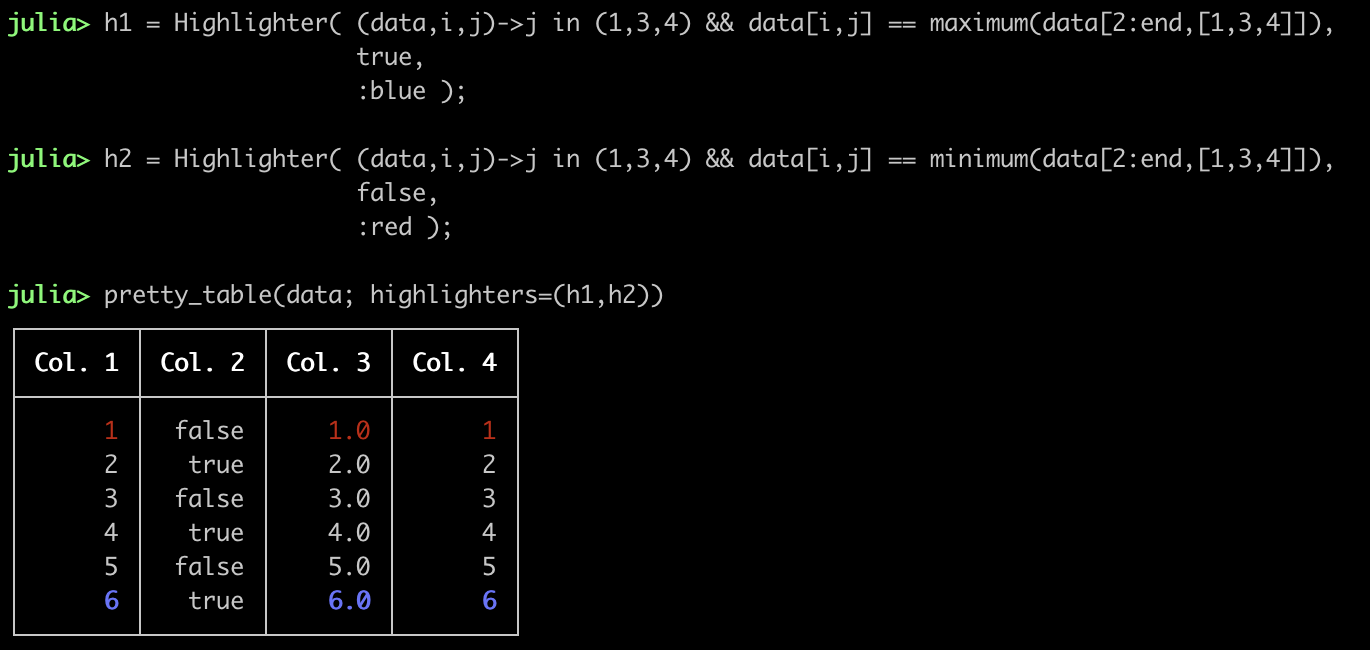
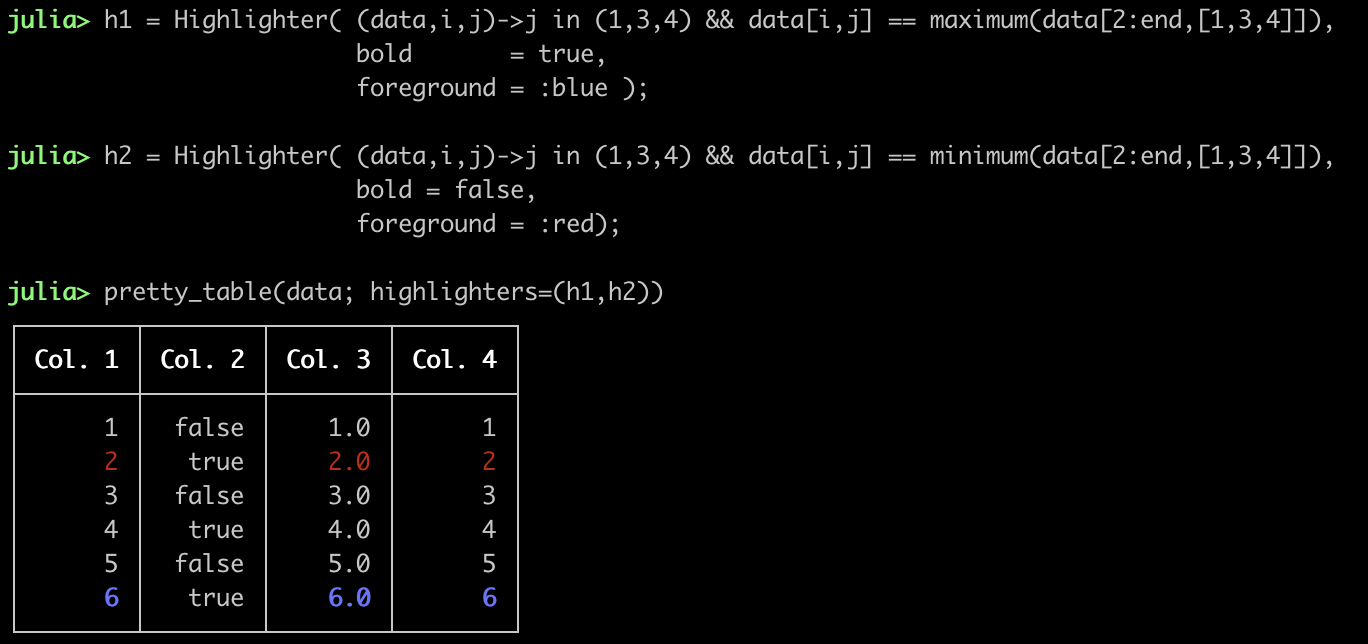
build based on 1b768b6

diff --git a/dev/man/usage/index.html b/dev/man/usage/index.html
@@ -1,5 +1,5 @@
 <!DOCTYPE html>
-<html lang="en"><head><meta charset="UTF-8"/><meta name="viewport" content="width=device-width, initial-scale=1.0"/><title>Usage · Pretty Tables</title><link rel="canonical" href="https://ronisbr.github.io/PrettyTables.jl/stable/man/usage/index.html"/><link href="https://cdnjs.cloudflare.com/ajax/libs/normalize/4.2.0/normalize.min.css" rel="stylesheet" type="text/css"/><link href="https://fonts.googleapis.com/css?family=Lato|Roboto+Mono" rel="stylesheet" type="text/css"/><link href="https://cdnjs.cloudflare.com/ajax/libs/font-awesome/4.6.3/css/font-awesome.min.css" rel="stylesheet" type="text/css"/><link href="https://cdnjs.cloudflare.com/ajax/libs/highlight.js/9.12.0/styles/default.min.css" rel="stylesheet" type="text/css"/><script>documenterBaseURL="../.."</script><script src="https://cdnjs.cloudflare.com/ajax/libs/require.js/2.2.0/require.min.js" data-main="../../assets/documenter.js"></script><script src="../../siteinfo.js"></script><script src="../../../versions.js"></script><link href="../../assets/documenter.css" rel="stylesheet" type="text/css"/></head><body><nav class="toc"><a href="../../index.html"><img class="logo" src="../../assets/logo.png" alt="Pretty Tables logo"/></a><h1>Pretty Tables</h1><select id="version-selector" onChange="window.location.href=this.value" style="visibility: hidden"></select><form class="search" id="search-form" action="../../search/"><input id="search-query" name="q" type="text" placeholder="Search docs"/></form><ul><li><a class="toctext" href="../../">Home</a></li><li class="current"><a class="toctext" href>Usage</a><ul class="internal"></ul></li><li><a class="toctext" href="../alignment/">Alignment</a></li><li><a class="toctext" href="../formats/">Formats</a></li><li><a class="toctext" href="../formatter/">Formatters</a></li><li><a class="toctext" href="../highlighters/">Highlighters</a></li><li><a class="toctext" href="../examples/">Examples</a></li></ul></nav><article id="docs"><header><nav><ul><li><a href>Usage</a></li></ul><a class="edit-page" href="https://github.com/ronisbr/PrettyTables.jl/blob/master/docs/src/man/usage.md"><span class="fa"></span> Edit on GitHub</a></nav><hr/><div id="topbar"><span>Usage</span><a class="fa fa-bars" href="#"></a></div></header><h1><a class="nav-anchor" id="Usage-1" href="#Usage-1">Usage</a></h1><p>The following functions can be used to print data.</p><pre><code class="language-julia">function pretty_table(data::AbstractMatrix{T1}, header::AbstractVecOrMat{T2}; kwargs...) where {T1,T2}</code></pre><p>Print to <code>io</code> the matrix <code>data</code> with header <code>header</code> using the format <code>tf</code> (see <a href="../formats/#Formats-1">Formats</a>). If <code>io</code> is omitted, then it defaults to <code>stdout</code>. If <code>header</code> is empty, then it will be automatically filled with &quot;Col. i&quot; for the <em>i</em>-th column.</p><p>The <code>header</code> can be a <code>Vector</code> or a <code>Matrix</code>. If it is a <code>Matrix</code>, then each row will be a header line. The first line is called <em>header</em> and the others are called <em>sub-headers</em> .</p><pre><code class="language-julia-repl">julia&gt; data = [1 2 3; 4 5 6];
+<html lang="en"><head><meta charset="UTF-8"/><meta name="viewport" content="width=device-width, initial-scale=1.0"/><title>Usage · Pretty Tables</title><link rel="canonical" href="https://ronisbr.github.io/PrettyTables.jl/stable/man/usage/index.html"/><link href="https://cdnjs.cloudflare.com/ajax/libs/normalize/4.2.0/normalize.min.css" rel="stylesheet" type="text/css"/><link href="https://fonts.googleapis.com/css?family=Lato|Roboto+Mono" rel="stylesheet" type="text/css"/><link href="https://cdnjs.cloudflare.com/ajax/libs/font-awesome/4.6.3/css/font-awesome.min.css" rel="stylesheet" type="text/css"/><link href="https://cdnjs.cloudflare.com/ajax/libs/highlight.js/9.12.0/styles/default.min.css" rel="stylesheet" type="text/css"/><script>documenterBaseURL="../.."</script><script src="https://cdnjs.cloudflare.com/ajax/libs/require.js/2.2.0/require.min.js" data-main="../../assets/documenter.js"></script><script src="../../siteinfo.js"></script><script src="../../../versions.js"></script><link href="../../assets/documenter.css" rel="stylesheet" type="text/css"/></head><body><nav class="toc"><a href="../../index.html"><img class="logo" src="../../assets/logo.png" alt="Pretty Tables logo"/></a><h1>Pretty Tables</h1><select id="version-selector" onChange="window.location.href=this.value" style="visibility: hidden"></select><form class="search" id="search-form" action="../../search/"><input id="search-query" name="q" type="text" placeholder="Search docs"/></form><ul><li><a class="toctext" href="../../">Home</a></li><li class="current"><a class="toctext" href>Usage</a><ul class="internal"><li><a class="toctext" href="#Crayons-1">Crayons</a></li></ul></li><li><a class="toctext" href="../alignment/">Alignment</a></li><li><a class="toctext" href="../formats/">Formats</a></li><li><a class="toctext" href="../formatter/">Formatters</a></li><li><a class="toctext" href="../highlighters/">Highlighters</a></li><li><a class="toctext" href="../examples/">Examples</a></li></ul></nav><article id="docs"><header><nav><ul><li><a href>Usage</a></li></ul><a class="edit-page" href="https://github.com/ronisbr/PrettyTables.jl/blob/master/docs/src/man/usage.md"><span class="fa"></span> Edit on GitHub</a></nav><hr/><div id="topbar"><span>Usage</span><a class="fa fa-bars" href="#"></a></div></header><h1><a class="nav-anchor" id="Usage-1" href="#Usage-1">Usage</a></h1><p>The following functions can be used to print data.</p><pre><code class="language-julia">function pretty_table(data::AbstractMatrix{T1}, header::AbstractVecOrMat{T2}; kwargs...) where {T1,T2}</code></pre><p>Print to <code>io</code> the matrix <code>data</code> with header <code>header</code> using the format <code>tf</code> (see <a href="../formats/#Formats-1">Formats</a>). If <code>io</code> is omitted, then it defaults to <code>stdout</code>. If <code>header</code> is empty, then it will be automatically filled with &quot;Col. i&quot; for the <em>i</em>-th column.</p><p>The <code>header</code> can be a <code>Vector</code> or a <code>Matrix</code>. If it is a <code>Matrix</code>, then each row will be a header line. The first line is called <em>header</em> and the others are called <em>sub-headers</em> .</p><pre><code class="language-julia-repl">julia&gt; data = [1 2 3; 4 5 6];
 
 julia&gt; pretty_table(data, [&quot;Column 1&quot;, &quot;Column 2&quot;, &quot;Column 3&quot;])
 ┌──────────┬──────────┬──────────┐
@@ -24,4 +24,7 @@ julia&gt; pretty_table(data)
 ├────────┼────────┼────────┤
 │      1 │      2 │      3 │
 │   true │  false │   true │
-└────────┴────────┴────────┘</code></pre><pre><code class="language-julia">function pretty_table([io,] table, tf::PrettyTableFormat = unicode; ...)</code></pre><p>Print to <code>io</code> the table <code>table</code> using the format <code>tf</code> (see <a href="../formats/#Formats-1">Formats</a>).  In this case, <code>table</code> must comply with the API of <a href="https://github.com/JuliaData/Tables.jl">Tables.jl</a>. If <code>io</code> is omitted, then it defaults to <code>stdout</code>.</p><p>In all cases, the following keywords are available:</p><ul><li><code>alignment</code>: Select the alignment of the columns (see the section              <a href="../alignment/#Alignment-1">Alignment</a>).</li><li><code>border_bold</code>: If <code>true</code>, then the border will be printed in <strong>bold</strong>.                (<strong>Default</strong> = <code>false</code>)</li><li><code>border_color</code>: The color in which the border will be printed using the same                 convention as in the function <code>printstyled</code>. (<strong>Default</strong> =                 <code>:normal</code>)</li><li><code>formatter</code>: See the section <a href="../formatter/#Formatter-1">Formatter</a>.</li><li><code>header_bold</code>: If <code>true</code>, then the header will be printed in <strong>bold</strong>.                (<strong>Default</strong> = <code>false</code>)</li><li><code>header_color</code>: The color in which the header will be printed using the same                 convention as in the function <code>printstyled</code>. (<strong>Default</strong> =                 <code>:normal</code>)</li><li><code>highlighters</code>: A tuple with a list of highlighters (see the section                 <a href="../highlighters/#Highlighters-1">Highlighters</a>).</li><li><code>hlines</code>: A vector of <code>Int</code> indicating row numbers in which an additional           horizontal line should be drawn after the row. Notice that numbers           lower than 1 and equal or higher than the number of rows will be           neglected.</li><li><code>same_column_size</code>: If <code>true</code>, then all the columns will have the same size.                     (<strong>Default</strong> = <code>false</code>)</li><li><code>show_row_number</code>: If <code>true</code>, then a new column will be printed showing the                    row number. (<strong>Default</strong> = <code>false</code>)</li><li><code>subheaders_bold</code>: If <code>true</code>, then the sub-headers will be printed in                    <strong>bold</strong>. (<strong>Default</strong> = <code>false</code>)</li><li><code>subheaders_color</code>: The color in which the sub-headers will be printed using                     the same convention as in the function <code>printstyled</code>.                     (<strong>Default</strong> = <code>:light_black</code>)</li></ul><footer><hr/><a class="previous" href="../../"><span class="direction">Previous</span><span class="title">Home</span></a><a class="next" href="../alignment/"><span class="direction">Next</span><span class="title">Alignment</span></a></footer></article></body></html>
+└────────┴────────┴────────┘</code></pre><pre><code class="language-julia">function pretty_table([io,] table, tf::PrettyTableFormat = unicode; ...)</code></pre><p>Print to <code>io</code> the table <code>table</code> using the format <code>tf</code> (see <a href="../formats/#Formats-1">Formats</a>).  In this case, <code>table</code> must comply with the API of <a href="https://github.com/JuliaData/Tables.jl">Tables.jl</a>. If <code>io</code> is omitted, then it defaults to <code>stdout</code>.</p><p>In all cases, the following keywords are available:</p><ul><li><code>border_crayon</code>: Crayon to print the border.</li><li><code>header_crayon</code>: Crayon to print the header.</li><li><code>subheaders_crayon</code>: Crayon to print sub-headers.</li><li><code>rownum_header_crayon</code>: Crayon for the header of the column with the row                         numbers.</li><li><code>text_crayon</code>: Crayon to print default text.</li><li><code>alignment</code>: Select the alignment of the columns (see the section              <a href="../alignment/#Alignment-1">Alignment</a>).</li><li><code>formatter</code>: See the section <a href="../formatter/#Formatter-1">Formatter</a>.</li><li><code>highlighters</code>: A tuple with a list of highlighters (see the section                 <a href="../highlighters/#Highlighters-1">Highlighters</a>).</li><li><code>hlines</code>: A vector of <code>Int</code> indicating row numbers in which an additional           horizontal line should be drawn after the row. Notice that numbers           lower than 1 and equal or higher than the number of rows will be           neglected.</li><li><code>same_column_size</code>: If <code>true</code>, then all the columns will have the same size.                     (<strong>Default</strong> = <code>false</code>)</li><li><code>show_row_number</code>: If <code>true</code>, then a new column will be printed showing the                    row number. (<strong>Default</strong> = <code>false</code>)</li></ul><p>The keywords <code>header_crayon</code> and <code>subheaders_crayon</code> can be a <code>Crayon</code> or a <code>Vector{Crayon}</code>. In the first case, the <code>Crayon</code> will be applied to all the elements. In the second, each element can have its own crayon, but the length of the vector must be equal to the number of columns in the data.</p><h2><a class="nav-anchor" id="Crayons-1" href="#Crayons-1">Crayons</a></h2><p>A <code>Crayon</code> is an object that handles a style for text printed on terminals. It is defined in the package <a href="https://github.com/KristofferC/Crayons.jl">Crayons.jl</a>. There are many options available to customize the style, such as foreground color, background color, bold text, etc.</p><p>A <code>Crayon</code> can be created in two different ways:</p><pre><code class="language-julia-repl">julia&gt; Crayon(foreground = :blue, background = :black, bold = :true)
+
+julia&gt; crayon&quot;blue bg:black bold&quot;</code></pre><p>For more information, see the <a href="https://github.com/KristofferC/Crayons.jl/blob/master/README.md">Crayon.jl documentation</a>.</p><p>!!! Info</p><pre><code class="language-none">The Crayon.jl package is re-exported by PrettyTables.jl. Hence, you do not
+need `using Crayons` to create a `Crayon`.</code></pre><footer><hr/><a class="previous" href="../../"><span class="direction">Previous</span><span class="title">Home</span></a><a class="next" href="../alignment/"><span class="direction">Next</span><span class="title">Alignment</span></a></footer></article></body></html>

diff --git a/dev/search_index.js b/dev/search_index.js
@@ -61,7 +61,15 @@ var documenterSearchIndex = {"docs": [
     "page": "Usage",
     "title": "Usage",
     "category": "section",
-    "text": "CurrentModule = PrettyTables\nDocTestSetup = quote\n    using PrettyTables\nendThe following functions can be used to print data.function pretty_table(data::AbstractMatrix{T1}, header::AbstractVecOrMat{T2}; kwargs...) where {T1,T2}Print to io the matrix data with header header using the format tf (see Formats). If io is omitted, then it defaults to stdout. If header is empty, then it will be automatically filled with \"Col. i\" for the i-th column.The header can be a Vector or a Matrix. If it is a Matrix, then each row will be a header line. The first line is called header and the others are called sub-headers .julia> data = [1 2 3; 4 5 6];\n\njulia> pretty_table(data, [\"Column 1\", \"Column 2\", \"Column 3\"])\n┌──────────┬──────────┬──────────┐\n│ Column 1 │ Column 2 │ Column 3 │\n├──────────┼──────────┼──────────┤\n│        1 │        2 │        3 │\n│        4 │        5 │        6 │\n└──────────┴──────────┴──────────┘\n\njulia> pretty_table(data, [\"Column 1\" \"Column 2\" \"Column 3\"; \"A\" \"B\" \"C\"])\n┌──────────┬──────────┬──────────┐\n│ Column 1 │ Column 2 │ Column 3 │\n│        A │        B │        C │\n├──────────┼──────────┼──────────┤\n│        1 │        2 │        3 │\n│        4 │        5 │        6 │\n└──────────┴──────────┴──────────┘function pretty_table([io,] data::AbstractMatrix{T}, tf::PrettyTableFormat = unicode; ...) where TPrint to io the matrix data using the format tf (see PrettyTableFormat). If io is omitted, then it defaults to stdout. The header will be automatically filled with \"Col. i\" for the i-th column.julia> data = Any[1 2 3; true false true];\n\njulia> pretty_table(data)\n┌────────┬────────┬────────┐\n│ Col. 1 │ Col. 2 │ Col. 3 │\n├────────┼────────┼────────┤\n│      1 │      2 │      3 │\n│   true │  false │   true │\n└────────┴────────┴────────┘function pretty_table([io,] table, tf::PrettyTableFormat = unicode; ...)Print to io the table table using the format tf (see Formats).  In this case, table must comply with the API of Tables.jl. If io is omitted, then it defaults to stdout.In all cases, the following keywords are available:alignment: Select the alignment of the columns (see the section              Alignment).\nborder_bold: If true, then the border will be printed in bold.                (Default = false)\nborder_color: The color in which the border will be printed using the same                 convention as in the function printstyled. (Default =                 :normal)\nformatter: See the section Formatter.\nheader_bold: If true, then the header will be printed in bold.                (Default = false)\nheader_color: The color in which the header will be printed using the same                 convention as in the function printstyled. (Default =                 :normal)\nhighlighters: A tuple with a list of highlighters (see the section                 Highlighters).\nhlines: A vector of Int indicating row numbers in which an additional           horizontal line should be drawn after the row. Notice that numbers           lower than 1 and equal or higher than the number of rows will be           neglected.\nsame_column_size: If true, then all the columns will have the same size.                     (Default = false)\nshow_row_number: If true, then a new column will be printed showing the                    row number. (Default = false)\nsubheaders_bold: If true, then the sub-headers will be printed in                    bold. (Default = false)\nsubheaders_color: The color in which the sub-headers will be printed using                     the same convention as in the function printstyled.                     (Default = :light_black)"
+    "text": "CurrentModule = PrettyTables\nDocTestSetup = quote\n    using PrettyTables\nendThe following functions can be used to print data.function pretty_table(data::AbstractMatrix{T1}, header::AbstractVecOrMat{T2}; kwargs...) where {T1,T2}Print to io the matrix data with header header using the format tf (see Formats). If io is omitted, then it defaults to stdout. If header is empty, then it will be automatically filled with \"Col. i\" for the i-th column.The header can be a Vector or a Matrix. If it is a Matrix, then each row will be a header line. The first line is called header and the others are called sub-headers .julia> data = [1 2 3; 4 5 6];\n\njulia> pretty_table(data, [\"Column 1\", \"Column 2\", \"Column 3\"])\n┌──────────┬──────────┬──────────┐\n│ Column 1 │ Column 2 │ Column 3 │\n├──────────┼──────────┼──────────┤\n│        1 │        2 │        3 │\n│        4 │        5 │        6 │\n└──────────┴──────────┴──────────┘\n\njulia> pretty_table(data, [\"Column 1\" \"Column 2\" \"Column 3\"; \"A\" \"B\" \"C\"])\n┌──────────┬──────────┬──────────┐\n│ Column 1 │ Column 2 │ Column 3 │\n│        A │        B │        C │\n├──────────┼──────────┼──────────┤\n│        1 │        2 │        3 │\n│        4 │        5 │        6 │\n└──────────┴──────────┴──────────┘function pretty_table([io,] data::AbstractMatrix{T}, tf::PrettyTableFormat = unicode; ...) where TPrint to io the matrix data using the format tf (see PrettyTableFormat). If io is omitted, then it defaults to stdout. The header will be automatically filled with \"Col. i\" for the i-th column.julia> data = Any[1 2 3; true false true];\n\njulia> pretty_table(data)\n┌────────┬────────┬────────┐\n│ Col. 1 │ Col. 2 │ Col. 3 │\n├────────┼────────┼────────┤\n│      1 │      2 │      3 │\n│   true │  false │   true │\n└────────┴────────┴────────┘function pretty_table([io,] table, tf::PrettyTableFormat = unicode; ...)Print to io the table table using the format tf (see Formats).  In this case, table must comply with the API of Tables.jl. If io is omitted, then it defaults to stdout.In all cases, the following keywords are available:border_crayon: Crayon to print the border.\nheader_crayon: Crayon to print the header.\nsubheaders_crayon: Crayon to print sub-headers.\nrownum_header_crayon: Crayon for the header of the column with the row                         numbers.\ntext_crayon: Crayon to print default text.\nalignment: Select the alignment of the columns (see the section              Alignment).\nformatter: See the section Formatter.\nhighlighters: A tuple with a list of highlighters (see the section                 Highlighters).\nhlines: A vector of Int indicating row numbers in which an additional           horizontal line should be drawn after the row. Notice that numbers           lower than 1 and equal or higher than the number of rows will be           neglected.\nsame_column_size: If true, then all the columns will have the same size.                     (Default = false)\nshow_row_number: If true, then a new column will be printed showing the                    row number. (Default = false)The keywords header_crayon and subheaders_crayon can be a Crayon or a Vector{Crayon}. In the first case, the Crayon will be applied to all the elements. In the second, each element can have its own crayon, but the length of the vector must be equal to the number of columns in the data."
+},
+
+{
+    "location": "man/usage/#Crayons-1",
+    "page": "Usage",
+    "title": "Crayons",
+    "category": "section",
+    "text": "A Crayon is an object that handles a style for text printed on terminals. It is defined in the package Crayons.jl. There are many options available to customize the style, such as foreground color, background color, bold text, etc.A Crayon can be created in two different ways:julia> Crayon(foreground = :blue, background = :black, bold = :true)\n\njulia> crayon\"blue bg:black bold\"For more information, see the Crayon.jl documentation.!!! InfoThe Crayon.jl package is re-exported by PrettyTables.jl. Hence, you do not\nneed `using Crayons` to create a `Crayon`."
 },
 
 {
@@ -125,7 +133,7 @@ var documenterSearchIndex = {"docs": [
     "page": "Highlighters",
     "title": "Highlighters",
     "category": "section",
-    "text": "CurrentModule = PrettyTables\nDocTestSetup = quote\n    using PrettyTables\nendA highlighter is an instance of the structure Highlighter that contains information about which elements a highlight style should be applied. The structure contains three fields:f: Function with the signature f(data,i,j) in which should return true      if the element (i,j) in data must be highlighted, or false      otherwise.\nbold: If true, then the highlight style should be bold.\ncolor: A symbol with the color of the highlight style using the same          convention as in the function printstyled.The function f must have the following signature:f(data, i, j)in which data is a reference to the data that is being printed, i and j are the element coordinates that are being tested. If this function returns true, then the highlight style will be applied to the (i,j) element. Otherwise, the default style will be used.A set of highlighters can be passed as a Tuple to the highlighter keyword. Notice that if multiple highlighters are valid for the element (i,j), then the applied style will be equal to the first match considering the order in the Tuple highlighters.(Image: )note: Note\nIf the highlighters are used together with Formatter, then the change in the format will not affect that parameter data passed to the highlighter function f. It will always receive the original, unformatted value.There are a set of pre-defined highlighters (with names hl_*) to make the usage simpler. They are defined in the file ./src/predefined_highlighters.jl."
+    "text": "CurrentModule = PrettyTables\nDocTestSetup = quote\n    using PrettyTables\nendA highlighter is an instance of the structure Highlighter that contains information about which elements a highlight style should be applied. The structure contains three fields:f: Function with the signature f(data,i,j) in which should return true      if the element (i,j) in data must be highlighted, or false      otherwise.\ncrayon: Crayon with the style of a highlighted element.The function f must have the following signature:f(data, i, j)in which data is a reference to the data that is being printed, i and j are the element coordinates that are being tested. If this function returns true, then the highlight style will be applied to the (i,j) element. Otherwise, the default style will be used.A set of highlighters can be passed as a Tuple to the highlighter keyword. Notice that if multiple highlighters are valid for the element (i,j), then the applied style will be equal to the first match considering the order in the Tuple highlighters.(Image: )(Image: )note: Note\nIf the highlighters are used together with Formatter, then the change in the format will not affect that parameter data passed to the highlighter function f. It will always receive the original, unformatted value.There are a set of pre-defined highlighters (with names hl_*) to make the usage simpler. They are defined in the file ./src/predefined_highlighters.jl.To make the syntax less cumbersome, the following helper function is available:    function Highlighter(f; kwargs...)It creates a Highlighter with the function f and pass all the keyword arguments kwargs to the Crayon. Hence, the following code:julia> Highlighter((data,i,j)->isodd(i), Crayon(bold = true, background = :dark_gray))can be replaced by:julia> Highlighter((data,i,j)->isodd(i); bold = true, background = :dark_gray)"
 },
 
 {

diff --git a/dev/man/highlighters/index.html b/dev/man/highlighters/index.html
@@ -1,2 +1,2 @@
 <!DOCTYPE html>
-<html lang="en"><head><meta charset="UTF-8"/><meta name="viewport" content="width=device-width, initial-scale=1.0"/><title>Highlighters · Pretty Tables</title><link rel="canonical" href="https://ronisbr.github.io/PrettyTables.jl/stable/man/highlighters/index.html"/><link href="https://cdnjs.cloudflare.com/ajax/libs/normalize/4.2.0/normalize.min.css" rel="stylesheet" type="text/css"/><link href="https://fonts.googleapis.com/css?family=Lato|Roboto+Mono" rel="stylesheet" type="text/css"/><link href="https://cdnjs.cloudflare.com/ajax/libs/font-awesome/4.6.3/css/font-awesome.min.css" rel="stylesheet" type="text/css"/><link href="https://cdnjs.cloudflare.com/ajax/libs/highlight.js/9.12.0/styles/default.min.css" rel="stylesheet" type="text/css"/><script>documenterBaseURL="../.."</script><script src="https://cdnjs.cloudflare.com/ajax/libs/require.js/2.2.0/require.min.js" data-main="../../assets/documenter.js"></script><script src="../../siteinfo.js"></script><script src="../../../versions.js"></script><link href="../../assets/documenter.css" rel="stylesheet" type="text/css"/></head><body><nav class="toc"><a href="../../index.html"><img class="logo" src="../../assets/logo.png" alt="Pretty Tables logo"/></a><h1>Pretty Tables</h1><select id="version-selector" onChange="window.location.href=this.value" style="visibility: hidden"></select><form class="search" id="search-form" action="../../search/"><input id="search-query" name="q" type="text" placeholder="Search docs"/></form><ul><li><a class="toctext" href="../../">Home</a></li><li><a class="toctext" href="../usage/">Usage</a></li><li><a class="toctext" href="../alignment/">Alignment</a></li><li><a class="toctext" href="../formats/">Formats</a></li><li><a class="toctext" href="../formatter/">Formatters</a></li><li class="current"><a class="toctext" href>Highlighters</a><ul class="internal"></ul></li><li><a class="toctext" href="../examples/">Examples</a></li></ul></nav><article id="docs"><header><nav><ul><li><a href>Highlighters</a></li></ul><a class="edit-page" href="https://github.com/ronisbr/PrettyTables.jl/blob/master/docs/src/man/highlighters.md"><span class="fa"></span> Edit on GitHub</a></nav><hr/><div id="topbar"><span>Highlighters</span><a class="fa fa-bars" href="#"></a></div></header><h1><a class="nav-anchor" id="Highlighters-1" href="#Highlighters-1">Highlighters</a></h1><p>A highlighter is an instance of the structure <a href="../../lib/library/#PrettyTables.Highlighter"><code>Highlighter</code></a> that contains information about which elements a highlight style should be applied. The structure contains three fields:</p><ul><li><code>f</code>: Function with the signature <code>f(data,i,j)</code> in which should return <code>true</code>      if the element <code>(i,j)</code> in <code>data</code> must be highlighted, or <code>false</code>      otherwise.</li><li><code>bold</code>: If <code>true</code>, then the highlight style should be <strong>bold</strong>.</li><li><code>color</code>: A symbol with the color of the highlight style using the same          convention as in the function <code>printstyled</code>.</li></ul><p>The function <code>f</code> must have the following signature:</p><pre><code class="language-none">f(data, i, j)</code></pre><p>in which <code>data</code> is a reference to the data that is being printed, <code>i</code> and <code>j</code> are the element coordinates that are being tested. If this function returns <code>true</code>, then the highlight style will be applied to the <code>(i,j)</code> element. Otherwise, the default style will be used.</p><p>A set of highlighters can be passed as a <code>Tuple</code> to the <code>highlighter</code> keyword. Notice that if multiple highlighters are valid for the element <code>(i,j)</code>, then the applied style will be equal to the first match considering the order in the Tuple <code>highlighters</code>.</p><p><img src="../../assets/ex_highlighters_00001.png" alt/></p><div class="admonition note"><div class="admonition-title">Note</div><div class="admonition-text"><p>If the highlighters are used together with <a href="../formatter/#Formatter-1">Formatter</a>, then the change in the format <strong>will not</strong> affect that parameter <code>data</code> passed to the highlighter function <code>f</code>. It will always receive the original, unformatted value.</p></div></div><p>There are a set of pre-defined highlighters (with names <code>hl_*</code>) to make the usage simpler. They are defined in the file <code>./src/predefined_highlighters.jl</code>.</p><footer><hr/><a class="previous" href="../formatter/"><span class="direction">Previous</span><span class="title">Formatters</span></a><a class="next" href="../examples/"><span class="direction">Next</span><span class="title">Examples</span></a></footer></article></body></html>
+<html lang="en"><head><meta charset="UTF-8"/><meta name="viewport" content="width=device-width, initial-scale=1.0"/><title>Highlighters · Pretty Tables</title><link rel="canonical" href="https://ronisbr.github.io/PrettyTables.jl/stable/man/highlighters/index.html"/><link href="https://cdnjs.cloudflare.com/ajax/libs/normalize/4.2.0/normalize.min.css" rel="stylesheet" type="text/css"/><link href="https://fonts.googleapis.com/css?family=Lato|Roboto+Mono" rel="stylesheet" type="text/css"/><link href="https://cdnjs.cloudflare.com/ajax/libs/font-awesome/4.6.3/css/font-awesome.min.css" rel="stylesheet" type="text/css"/><link href="https://cdnjs.cloudflare.com/ajax/libs/highlight.js/9.12.0/styles/default.min.css" rel="stylesheet" type="text/css"/><script>documenterBaseURL="../.."</script><script src="https://cdnjs.cloudflare.com/ajax/libs/require.js/2.2.0/require.min.js" data-main="../../assets/documenter.js"></script><script src="../../siteinfo.js"></script><script src="../../../versions.js"></script><link href="../../assets/documenter.css" rel="stylesheet" type="text/css"/></head><body><nav class="toc"><a href="../../index.html"><img class="logo" src="../../assets/logo.png" alt="Pretty Tables logo"/></a><h1>Pretty Tables</h1><select id="version-selector" onChange="window.location.href=this.value" style="visibility: hidden"></select><form class="search" id="search-form" action="../../search/"><input id="search-query" name="q" type="text" placeholder="Search docs"/></form><ul><li><a class="toctext" href="../../">Home</a></li><li><a class="toctext" href="../usage/">Usage</a></li><li><a class="toctext" href="../alignment/">Alignment</a></li><li><a class="toctext" href="../formats/">Formats</a></li><li><a class="toctext" href="../formatter/">Formatters</a></li><li class="current"><a class="toctext" href>Highlighters</a><ul class="internal"></ul></li><li><a class="toctext" href="../examples/">Examples</a></li></ul></nav><article id="docs"><header><nav><ul><li><a href>Highlighters</a></li></ul><a class="edit-page" href="https://github.com/ronisbr/PrettyTables.jl/blob/master/docs/src/man/highlighters.md"><span class="fa"></span> Edit on GitHub</a></nav><hr/><div id="topbar"><span>Highlighters</span><a class="fa fa-bars" href="#"></a></div></header><h1><a class="nav-anchor" id="Highlighters-1" href="#Highlighters-1">Highlighters</a></h1><p>A highlighter is an instance of the structure <a href="../../lib/library/#PrettyTables.Highlighter"><code>Highlighter</code></a> that contains information about which elements a highlight style should be applied. The structure contains three fields:</p><ul><li><code>f</code>: Function with the signature <code>f(data,i,j)</code> in which should return <code>true</code>      if the element <code>(i,j)</code> in <code>data</code> must be highlighted, or <code>false</code>      otherwise.</li><li><code>crayon</code>: Crayon with the style of a highlighted element.</li></ul><p>The function <code>f</code> must have the following signature:</p><pre><code class="language-none">f(data, i, j)</code></pre><p>in which <code>data</code> is a reference to the data that is being printed, <code>i</code> and <code>j</code> are the element coordinates that are being tested. If this function returns <code>true</code>, then the highlight style will be applied to the <code>(i,j)</code> element. Otherwise, the default style will be used.</p><p>A set of highlighters can be passed as a <code>Tuple</code> to the <code>highlighter</code> keyword. Notice that if multiple highlighters are valid for the element <code>(i,j)</code>, then the applied style will be equal to the first match considering the order in the Tuple <code>highlighters</code>.</p><p><img src="../../assets/ex_highlighters_00001.png" alt/></p><p><img src="../../assets/ex_highlighters_00002.png" alt/></p><div class="admonition note"><div class="admonition-title">Note</div><div class="admonition-text"><p>If the highlighters are used together with <a href="../formatter/#Formatter-1">Formatter</a>, then the change in the format <strong>will not</strong> affect that parameter <code>data</code> passed to the highlighter function <code>f</code>. It will always receive the original, unformatted value.</p></div></div><p>There are a set of pre-defined highlighters (with names <code>hl_*</code>) to make the usage simpler. They are defined in the file <code>./src/predefined_highlighters.jl</code>.</p><p>To make the syntax less cumbersome, the following helper function is available:</p><pre><code class="language-julia">    function Highlighter(f; kwargs...)</code></pre><p>It creates a <code>Highlighter</code> with the function <code>f</code> and pass all the keyword arguments <code>kwargs</code> to the <code>Crayon</code>. Hence, the following code:</p><pre><code class="language-julia-repl">julia&gt; Highlighter((data,i,j)-&gt;isodd(i), Crayon(bold = true, background = :dark_gray))</code></pre><p>can be replaced by:</p><pre><code class="language-julia-repl">julia&gt; Highlighter((data,i,j)-&gt;isodd(i); bold = true, background = :dark_gray)</code></pre><footer><hr/><a class="previous" href="../formatter/"><span class="direction">Previous</span><span class="title">Formatters</span></a><a class="next" href="../examples/"><span class="direction">Next</span><span class="title">Examples</span></a></footer></article></body></html>

diff --git a/dev/index.html b/dev/index.html
@@ -1,3 +1,3 @@
 <!DOCTYPE html>
 <html lang="en"><head><meta charset="UTF-8"/><meta name="viewport" content="width=device-width, initial-scale=1.0"/><title>Home · Pretty Tables</title><link rel="canonical" href="https://ronisbr.github.io/PrettyTables.jl/stable/index.html"/><link href="https://cdnjs.cloudflare.com/ajax/libs/normalize/4.2.0/normalize.min.css" rel="stylesheet" type="text/css"/><link href="https://fonts.googleapis.com/css?family=Lato|Roboto+Mono" rel="stylesheet" type="text/css"/><link href="https://cdnjs.cloudflare.com/ajax/libs/font-awesome/4.6.3/css/font-awesome.min.css" rel="stylesheet" type="text/css"/><link href="https://cdnjs.cloudflare.com/ajax/libs/highlight.js/9.12.0/styles/default.min.css" rel="stylesheet" type="text/css"/><script>documenterBaseURL="."</script><script src="https://cdnjs.cloudflare.com/ajax/libs/require.js/2.2.0/require.min.js" data-main="assets/documenter.js"></script><script src="siteinfo.js"></script><script src="../versions.js"></script><link href="assets/documenter.css" rel="stylesheet" type="text/css"/></head><body><nav class="toc"><a href="index.html"><img class="logo" src="assets/logo.png" alt="Pretty Tables logo"/></a><h1>Pretty Tables</h1><select id="version-selector" onChange="window.location.href=this.value" style="visibility: hidden"></select><form class="search" id="search-form" action="search/"><input id="search-query" name="q" type="text" placeholder="Search docs"/></form><ul><li class="current"><a class="toctext" href>Home</a><ul class="internal"><li><a class="toctext" href="#Requirements-1">Requirements</a></li><li><a class="toctext" href="#Installation-1">Installation</a></li><li><a class="toctext" href="#Manual-outline-1">Manual outline</a></li><li><a class="toctext" href="#Library-documentation-1">Library documentation</a></li></ul></li><li><a class="toctext" href="man/usage/">Usage</a></li><li><a class="toctext" href="man/alignment/">Alignment</a></li><li><a class="toctext" href="man/formats/">Formats</a></li><li><a class="toctext" href="man/formatter/">Formatters</a></li><li><a class="toctext" href="man/highlighters/">Highlighters</a></li><li><a class="toctext" href="man/examples/">Examples</a></li></ul></nav><article id="docs"><header><nav><ul><li><a href>Home</a></li></ul><a class="edit-page" href="https://github.com/ronisbr/PrettyTables.jl/blob/master/docs/src/index.md"><span class="fa"></span> Edit on GitHub</a></nav><hr/><div id="topbar"><span>Home</span><a class="fa fa-bars" href="#"></a></div></header><h1><a class="nav-anchor" id="PrettyTables.jl-1" href="#PrettyTables.jl-1">PrettyTables.jl</a></h1><p>This package has the purpose to print data in matrices in a human-readable format. It was inspired in the functionality provided by <a href="https://ozh.github.io/ascii-tables/">ASCII Table Generator</a>.</p><p><img src="assets/welcome_figure.png" alt/></p><h2><a class="nav-anchor" id="Requirements-1" href="#Requirements-1">Requirements</a></h2><ul><li>Julia &gt;= 1.0</li><li>Parameters &gt;= 0.10.3</li><li>Tables &gt;= 0.1.14</li></ul><h2><a class="nav-anchor" id="Installation-1" href="#Installation-1">Installation</a></h2><pre><code class="language-julia-repl">julia&gt; using Pkg
-julia&gt; Pkg.add(&quot;PrettyTables&quot;)</code></pre><h2><a class="nav-anchor" id="Manual-outline-1" href="#Manual-outline-1">Manual outline</a></h2><ul><li><a href="man/usage/#Usage-1">Usage</a></li><li><a href="man/formats/#Formats-1">Formats</a></li><li><a href="man/alignment/#Alignment-1">Alignment</a></li><li><a href="man/formatter/#Formatter-1">Formatter</a></li><li><a href="man/highlighters/#Highlighters-1">Highlighters</a></li><li><a href="man/examples/#Examples-1">Examples</a></li></ul><h2><a class="nav-anchor" id="Library-documentation-1" href="#Library-documentation-1">Library documentation</a></h2><ul><li><a href="lib/library/#PrettyTables.Highlighter"><code>PrettyTables.Highlighter</code></a></li><li><a href="lib/library/#PrettyTables.PrettyTableFormat"><code>PrettyTables.PrettyTableFormat</code></a></li><li><a href="lib/library/#PrettyTables.ft_printf-Tuple{String}"><code>PrettyTables.ft_printf</code></a></li><li><a href="lib/library/#PrettyTables.ft_round-Tuple{Int64}"><code>PrettyTables.ft_round</code></a></li><li><a href="lib/library/#PrettyTables.hl_geq-Tuple{Number}"><code>PrettyTables.hl_geq</code></a></li><li><a href="lib/library/#PrettyTables.hl_gt-Tuple{Number}"><code>PrettyTables.hl_gt</code></a></li><li><a href="lib/library/#PrettyTables.hl_leq-Tuple{Number}"><code>PrettyTables.hl_leq</code></a></li><li><a href="lib/library/#PrettyTables.hl_lt-Tuple{Number}"><code>PrettyTables.hl_lt</code></a></li><li><a href="lib/library/#PrettyTables.hl_value-Tuple{Any}"><code>PrettyTables.hl_value</code></a></li><li><a href="lib/library/#PrettyTables.pretty_table-Union{Tuple{T2}, Tuple{T1}, Tuple{AbstractArray{T1,2},Union{AbstractArray{T2,1}, AbstractArray{T2,2}}}, Tuple{AbstractArray{T1,2},Union{AbstractArray{T2,1}, AbstractArray{T2,2}},PrettyTableFormat}} where T2 where T1"><code>PrettyTables.pretty_table</code></a></li><li><a href="lib/library/#PrettyTables.@_draw_line-NTuple{11,Any}"><code>PrettyTables.@_draw_line</code></a></li><li><a href="lib/library/#PrettyTables.@_ps-NTuple{4,Any}"><code>PrettyTables.@_ps</code></a></li><li><a href="lib/library/#PrettyTables.@_str_aligned-Tuple{Any,Any,Any}"><code>PrettyTables.@_str_aligned</code></a></li></ul><footer><hr/><a class="next" href="man/usage/"><span class="direction">Next</span><span class="title">Usage</span></a></footer></article></body></html>
+julia&gt; Pkg.add(&quot;PrettyTables&quot;)</code></pre><h2><a class="nav-anchor" id="Manual-outline-1" href="#Manual-outline-1">Manual outline</a></h2><ul><li><a href="man/usage/#Usage-1">Usage</a></li><ul><li><a href="man/usage/#Crayons-1">Crayons</a></li></ul><li><a href="man/formats/#Formats-1">Formats</a></li><li><a href="man/alignment/#Alignment-1">Alignment</a></li><li><a href="man/formatter/#Formatter-1">Formatter</a></li><li><a href="man/highlighters/#Highlighters-1">Highlighters</a></li><li><a href="man/examples/#Examples-1">Examples</a></li></ul><h2><a class="nav-anchor" id="Library-documentation-1" href="#Library-documentation-1">Library documentation</a></h2><ul><li><a href="lib/library/#PrettyTables.Highlighter-Tuple{Any}"><code>PrettyTables.Highlighter</code></a></li><li><a href="lib/library/#PrettyTables.Highlighter"><code>PrettyTables.Highlighter</code></a></li><li><a href="lib/library/#PrettyTables.PrettyTableFormat"><code>PrettyTables.PrettyTableFormat</code></a></li><li><a href="lib/library/#PrettyTables.ft_printf-Tuple{String}"><code>PrettyTables.ft_printf</code></a></li><li><a href="lib/library/#PrettyTables.ft_round-Tuple{Int64}"><code>PrettyTables.ft_round</code></a></li><li><a href="lib/library/#PrettyTables.hl_geq-Tuple{Number}"><code>PrettyTables.hl_geq</code></a></li><li><a href="lib/library/#PrettyTables.hl_gt-Tuple{Number}"><code>PrettyTables.hl_gt</code></a></li><li><a href="lib/library/#PrettyTables.hl_leq-Tuple{Number}"><code>PrettyTables.hl_leq</code></a></li><li><a href="lib/library/#PrettyTables.hl_lt-Tuple{Number}"><code>PrettyTables.hl_lt</code></a></li><li><a href="lib/library/#PrettyTables.hl_value-Tuple{Any}"><code>PrettyTables.hl_value</code></a></li><li><a href="lib/library/#PrettyTables.pretty_table-Union{Tuple{T2}, Tuple{T1}, Tuple{AbstractArray{T1,2},Union{AbstractArray{T2,1}, AbstractArray{T2,2}}}, Tuple{AbstractArray{T1,2},Union{AbstractArray{T2,1}, AbstractArray{T2,2}},PrettyTableFormat}} where T2 where T1"><code>PrettyTables.pretty_table</code></a></li><li><a href="lib/library/#PrettyTables.@_draw_line-NTuple{10,Any}"><code>PrettyTables.@_draw_line</code></a></li><li><a href="lib/library/#PrettyTables.@_ps-Tuple{Any,Any,Any}"><code>PrettyTables.@_ps</code></a></li><li><a href="lib/library/#PrettyTables.@_str_aligned-Tuple{Any,Any,Any}"><code>PrettyTables.@_str_aligned</code></a></li></ul><footer><hr/><a class="next" href="man/usage/"><span class="direction">Next</span><span class="title">Usage</span></a></footer></article></body></html>
